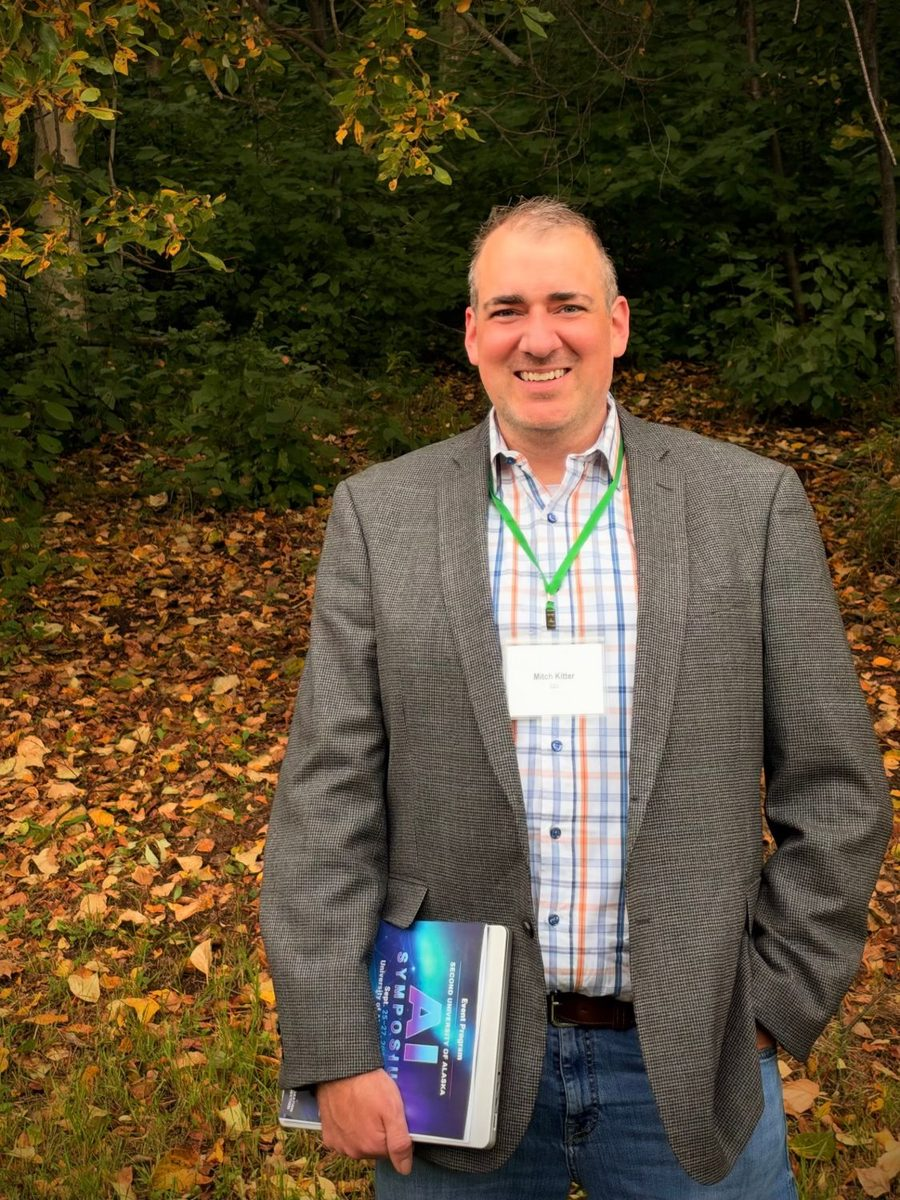
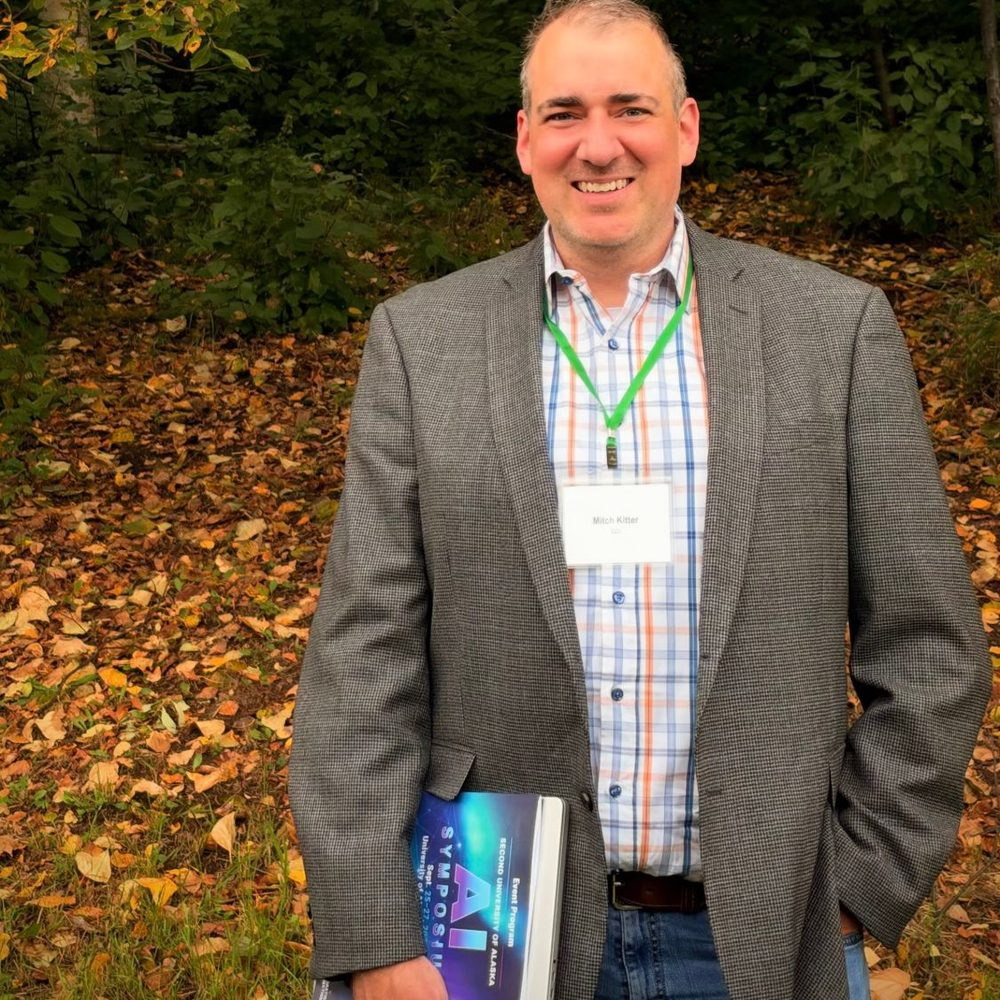
Condense UA AI Symposium post and fix stretched photo
Trim the post to about a quarter of its length, swap the portrait photo
for a square crop, add height:auto to post figure images, and cache-bust
blog.css so browsers pick up the figure styles.

Claude-Session: https://claude.ai/code/session_017zDf5S3JkX34gCJag1QndZ

diff --git a/blog/ua-ai-symposium-2026.html b/blog/ua-ai-symposium-2026.html
@@ -28,7 +28,7 @@
   <link href="https://fonts.googleapis.com/css2?family=Space+Grotesk:wght@400;500;600;700&family=Inter:wght@400;500;600&family=JetBrains+Mono:wght@400;500&display=swap" rel="stylesheet" />
 
   <link rel="stylesheet" href="../css/style.css" />
-  <link rel="stylesheet" href="../css/blog.css" />
+  <link rel="stylesheet" href="../css/blog.css?v=2" />
 </head>
 <body>
 
@@ -78,7 +78,7 @@
           <div class="post-meta">
             <span class="blog-tag">Cybersecurity</span>
             <time datetime="2026-09-28" itemprop="datePublished">September 28, 2026</time>
-            <span class="read-time">10 min read</span>
+            <span class="read-time">3 min read</span>
           </div>
 
           <h1 class="post-title" itemprop="headline">Power, Phishing, and the New Perimeter: Takeaways from the UA AI Symposium</h1>
@@ -106,116 +106,36 @@
       <!-- POST BODY -->
       <div class="post-body container" itemprop="articleBody">
 
-        <p>This past weekend, the University of Alaska hosted its second AI Symposium, three days (September 25 to 27) of faculty, students, researchers, IT leaders, and industry partners from across the UA system working through what artificial intelligence means for teaching, research, operations, and the state as a whole. The audience joined both in the room and online, and the conversations ran well past the scheduled sessions.</p>
-
-        <p>I was invited to moderate the <strong>Infrastructure, Security &amp; AI</strong> panel on Saturday morning, and it was one of the best conversations I've been part of this year. The questions we took on, about power, connectivity, attackers, and governance, sit right at the center of my Ph.D. research at the University of Alaska Fairbanks and of my day job leading security architecture and planning at GCI. Hearing them debated by the people who build and defend this infrastructure every day was energizing.</p>
+        <p>This past weekend, the University of Alaska hosted its second AI Symposium (September 25 to 27), bringing together faculty, students, IT leaders, and industry partners from across the UA system, in person and online. I was invited to moderate the <strong>Infrastructure, Security &amp; AI</strong> panel, and it was one of the best conversations I've been part of this year.</p>
 
         <figure class="figure-portrait">
-          <img src="../assets/images/post-ua-ai-symposium-2026.jpg" alt="Mitch Kitter smiling outdoors among autumn birch trees and fallen leaves, wearing a gray blazer and a symposium name badge, holding the event program for the Second University of Alaska AI Symposium, September 25 to 27." width="900" height="1200" loading="lazy" />
+          <img src="../assets/images/post-ua-ai-symposium-2026.jpg" alt="Mitch Kitter smiling outdoors among autumn trees and fallen leaves, wearing a gray blazer and symposium name badge, holding the program for the Second University of Alaska AI Symposium." width="1000" height="1000" loading="lazy" />
           <figcaption>At the second University of Alaska AI Symposium, program in hand.</figcaption>
         </figure>
 
-        <h2>The panel</h2>
+        <p>I was joined by <strong>Shawn Williams</strong> (VP of Government Affairs and Strategy, Pacific Data Port), <strong>Benjamin Shier</strong> (Chief Information Technology Officer, University of Alaska System), and <strong>Ryan McDaniel</strong> (CIO, UAA), with UA CISO <strong>Jeannette Okinczyc</strong> contributing from the audience. Here's what stood out.</p>
 
-        <p>I was fortunate to share the stage with three leaders who see AI's infrastructure and security impacts from very different vantage points:</p>
+        <h2>Power runs out first</h2>
 
-        <ul>
-          <li><strong>Shawn Williams</strong>, Vice President of Government Affairs and Strategy at Pacific Data Port, a 45-year Alaskan, former Assistant Commissioner of Commerce for the State of Alaska, and a fellow UAF Ph.D. student studying regulatory economics and public health.</li>
-          <li><strong>Benjamin Shier</strong>, Chief Information Technology Officer for the University of Alaska System, who leads IT strategy and shared technology services for UAA, UAF, and UAS.</li>
-          <li><strong>Ryan McDaniel</strong>, Assistant Vice Chancellor and Chief Information Officer at UAA, with 25 years in higher education IT and doctoral research on international cyber conflict.</li>
-        </ul>
+        <p>When I asked what runs out first if AI demand in Alaska doubles, power came up fast. Shawn described a utility offering three megawatts for a GPU project, with 30 more costing $30 to 40 million. "It's definitely power first," he said, "because it doesn't exist." Ben noted that AI is reopening the cloud-versus-local question, and if local wins, power becomes the number one issue. Compute ambitions here live or die on energy.</p>
 
-        <p>We were also joined from the audience by <strong>Jeannette Okinczyc</strong>, the University of Alaska's Chief Information Security Officer, who brought the view from the security operations floor. Questions came from the room and from the online audience, relayed by symposium host <strong>Andrew Harnish</strong>.</p>
+        <h2>Latency and sovereignty shape what belongs here</h2>
 
-        <p>I framed the hour around a tension the university has to hold in balance. UA is a <em>customer</em> of AI infrastructure and, increasingly, a potential <em>host</em> of it. It serves researchers, students, faculty, and staff whose needs and attitudes toward AI differ widely. And it has to govern all of that in a way that enables the institution's mission, stays secure, and reflects its values. Here's what stood out.</p>
+        <p>A round trip from the North Slope to Seattle can approach 90 milliseconds. For most AI work that barely matters, but for real-time security response, rural healthcare, research data, and defense, it does. The panel and audience kept returning to Alaska's need to operate independently of its links to the Lower 48.</p>
 
-        <h2>1. If AI demand doubles, power runs out first</h2>
+        <h2>Attackers are adopting AI as fast as defenders</h2>
 
-        <p>I asked each panelist a simple question: if AI demand in Alaska doubles over the next three years, what runs out first? Power, middle-mile capacity, skilled people, or governance capacity?</p>
+        <p>Jeannette shared that her team's daily phishing response grew from about 90 minutes to 12 to 14 hours in roughly a year, forcing an investment in AI-driven defense because "people can't keep up with AI." Ben put it best: "Even though the castle walls are higher, the enemy has tanks that are 10 times more capable than five years ago."</p>
 
-        <p>Shawn didn't hesitate. Pacific Data Port has fielded interest in placing GPU clusters at its Talkeetna teleport, and when the company asked its utility what additional power was available, the answer was three megawatts. Getting roughly 30 more megawatts from the Intertie would cost somewhere between $30 and $40 million, and at that point, as Shawn put it, things "start to not pencil out."</p>
+        <h2>The perimeter has moved</h2>
 
-        <blockquote>
-          <p>"I can tell you right now that it's definitely power first, because it doesn't exist."</p>
-          <cite>Shawn Williams, Pacific Data Port</cite>
-        </blockquote>
+        <p>Ryan observed that as people build their own apps and agents, what they ask IT for is data. "The perimeter that we control has shifted." An agent acting on your behalf should get "some subset of what I can do, not all of it," with its own credentials. Identity, access, and governance for non-human actors are now core security work, and across the panel, policy is running ahead of enforcement.</p>
 
-        <p>He ranked middle mile second, people third, and governance last, not because it doesn't matter, but because "it'll come along and it'll just be a little late." Ryan agreed power becomes the binding constraint as demand grows, though he argued governance is the biggest vacuum <em>today</em>. He also made a point I hadn't fully considered: frontier AI providers are currently subsidizing usage, and as prices eventually rise, organizations will shift more work to local models running on their own hardware. That drives demand for local compute and co-location, and in Alaska that demand lands squarely on the power grid.</p>
+        <h2>Why it matters for my research</h2>
 
-        <p>Ben added a wrinkle that I think deserves more attention. After years of moving workloads out of in-state data centers and into the cloud because the economics made sense, institutions are now asking whether AI makes it worth running things locally again. If the answer is yes, "power becomes your number one issue, because we just don't have that kind of excess power." Ryan sharpened it further: it isn't only capacity, it's cost. Elsewhere, compute simply migrates to wherever the kilowatt-hour is cheapest. If Alaska wants AI capacity that isn't dependent on an undersea cable to the Lower 48, it doesn't have that option.</p>
+        <p>My Ph.D. research at UAF examines the security and resilience of Alaska's critical telecommunications infrastructure, and how security leaders prioritize risk when resources are finite. This panel touched every thread: the interdependence of telecom and energy, geography as a risk factor, defenders stretched by AI-scale threats, and governance lagging adoption. These questions also shape how we think about security architecture every day at GCI.</p>
 
-        <h2>2. Latency and sovereignty decide what belongs in Alaska</h2>
-
-        <p>That led naturally to the question of which workloads actually make sense to host here. Shawn walked the room through the physics: a round trip from Anchorage to Seattle over fiber runs roughly 40 to 50 milliseconds, but from the North Slope, down the backbone to Seattle, and back, it can approach 80 to 90. Low-earth-orbit satellite service sits in a similar range, while geosynchronous links can reach 650 milliseconds.</p>
-
-        <p>For much of today's AI use, latency barely matters. As Ryan noted, if an agent is building an app for you, you let it run and come back later. But the panel converged on a short list where it matters a great deal:</p>
-
-        <ul>
-          <li><strong>Real-time security response.</strong> In Ryan's words, "if your AI-based response is not keeping up with the AI-based attack, then it's a war of attrition and you're losing."</li>
-          <li><strong>Healthcare.</strong> Dr. Helena Wisniewski, who recently spoke with the Alaska Native Tribal Health Consortium on AI in medicine, pointed out that AI-supported care in rural villages, care that could spare patients a trip to Anchorage, makes latency critical.</li>
-          <li><strong>Research at scale.</strong> Ben described how working with very large research data sets changed his own cloud-first thinking and made a case for keeping some compute on-premises.</li>
-          <li><strong>Defense and data sovereignty.</strong> Shawn summed it up: defense, healthcare, and data sovereignty are all good reasons for localized hosting.</li>
-        </ul>
-
-        <p>An audience member added what I'd call the third leg of the stool. Beyond economics and performance, Alaska's distance from the rest of the country makes domestic and national security a distinct factor. Models that work well in the Lower 48, where data centers can be mirrored across many regions, don't translate cleanly to a state that already has connectivity constraints. Another participant noted that the most capable frontier models are exactly what defenders will need to keep up with AI-discovered vulnerabilities, so Alaska will likely need <em>hybrid</em> capability: strong local capacity, plus access to frontier models. The piece I keep returning to is the ability to respond <em>independently</em> of our connections to the Lower 48 when those connections are degraded or cut.</p>
-
-        <h2>3. Attackers are adopting AI as fast as defenders</h2>
-
-        <p>When I asked what single AI-driven change had most altered their infrastructure or security planning in the last 18 months, Ben's answer was immediate: phishing. Despite years of anti-phishing investment, AI-generated phishing has become faster and more sophisticated, driving a significant increase in successful attacks, including attempts to reroute employee paychecks.</p>
-
-        <p>Jeannette put numbers to it. Her team's daily time spent responding to phishing, pulling messages from inboxes, contacting users, resetting credentials, grew from about 90 minutes a day to 12 to 14 hours a day over roughly a year. A small team simply could not keep pace, so the university invested in AI-driven phishing response and began automating parts of incident response, using local models to evaluate the likelihood of a false positive before letting automation act. It has already paid dividends. Her summary was blunt: "people can't keep up with AI."</p>
-
-        <p>Asked which control she was least confident in, she named the one most security leaders would: vulnerability management and patching. Ryan predicted it will get harder, not easier, as vendors use AI to find flaws in their own products and push fixes faster than organizations can absorb them. He also raised a quieter consequence: attribution. Investigators have long identified attackers by their fingerprints, familiar tooling, code habits, and techniques. When an attacker simply tells an AI to "go hack," those fingerprints blur, and knowing who is behind an intrusion gets harder still.</p>
-
-        <p>Ben captured the paradox of the moment in a single line:</p>
-
-        <blockquote>
-          <p>"Even though the castle walls are higher, the enemy has tanks that are 10 times more capable than five years ago."</p>
-          <cite>Benjamin Shier, University of Alaska System</cite>
-        </blockquote>
-
-        <p>An organization can meaningfully improve its security posture and still end up relatively <em>less</em> secure, because the threat is improving faster. As Ben said, it depends on the day.</p>
-
-        <h2>4. The perimeter has moved to identity and non-human actors</h2>
-
-        <p>Ryan's answer to the 18-month question is the one I've thought about most since. Building an application used to mean asking IT to build it. Now anyone can build their own app or agent in an afternoon, and what they show up asking IT for is <em>data</em>.</p>
-
-        <blockquote>
-          <p>"So the perimeter that we control has shifted."</p>
-          <cite>Ryan McDaniel, University of Alaska Anchorage</cite>
-        </blockquote>
-
-        <p>That shift creates two new layers of work. One is infrastructure: integrations, API control, and control over how agents interact with systems through protocols like MCP. The other is policy: the rules of play for self-built apps, such as requiring code to live in a managed repository where security teams can scan it for mistakes like secrets left in source, which, as Ryan noted, agents will absolutely do.</p>
-
-        <p>Then there's identity. If a business process requires a human in the loop, authorization has to enforce that. When an AI agent logs into an ERP system on your behalf, it shouldn't inherit everything you can do. It "should be able to do some subset of what I can do, not all of it," which means agents need their own credentials and their own scoped authorizations. Most identity infrastructure was never designed for that.</p>
-
-        <p>The policy discussion reinforced the gap. Across the panel, written AI policies, assessed tools, and published guidance exist, but the systemic controls to see or stop inappropriate data sharing largely don't yet. Shawn noted that the biggest vulnerability remains the human who pastes something proprietary into an unapproved tool. Ryan described banning one meeting-transcription tool that was spreading through the community almost like a worm, and made the important point that a single approved list doesn't fit a university: what's appropriate for institutional data differs from what's appropriate for research or teaching. The honest summary is that <strong>policy is ahead of enforcement</strong>, and identity, access, and governance for non-human actors are now core security work.</p>
-
-        <h2>5. What Juneau should know</h2>
-
-        <p>In a lightning round, I asked what good AI infrastructure policy looks like for Alaska. Shawn suggested repurposing the Alaska Broadband Office, created to distribute federal broadband funding, toward a broader mandate for Alaska's telecommunications infrastructure. Ben tied everything back to energy: so much of what the state can do in AI, local models, and cybersecurity depends on solving its energy challenges. And Ryan urged legislators to look beyond technology to the societal and economic impacts, which he described as "industrial revolution times five."</p>
-
-        <p>Diane Hirschberg from UAA pushed the energy question further from the audience: if growing demand can lower energy costs over time, and if sovereign AI capacity is a genuine security and productivity issue for Alaska, what investment should the state be willing to make, and how do we have that conversation? It's the right question, and it doesn't have an easy answer.</p>
-
-        <h2>Why this matters for my research</h2>
-
-        <p>My dissertation examines the cyber and physical security and resilience of Alaska's critical telecommunications infrastructure, and in particular how the state's telecom security leaders prioritize risk when resources are finite. This panel surfaced nearly every thread I'm pulling on:</p>
-
-        <ul>
-          <li><strong>Interdependence.</strong> Telecommunications and energy are inseparable in Alaska. Compute ambitions here live or die on power, and the resilience of our networks depends on the resilience of the grid that feeds them.</li>
-          <li><strong>Geography as a risk factor.</strong> Latency, limited path diversity, and reliance on long-haul links to the Lower 48 aren't abstractions. They shape what can be hosted here, how quickly we can respond to an incident, and how we operate if a link goes dark.</li>
-          <li><strong>Resource-constrained defense.</strong> A phishing workload that grows from 90 minutes to 14 hours a day is exactly the kind of pressure that forces leaders to choose between competing risks. Understanding how those choices get made is at the heart of my research.</li>
-          <li><strong>Governance lag.</strong> When policy moves slower than adoption, and controls lag behind policy, risk accumulates in the gap. Non-human identity may be the clearest example we have right now.</li>
-        </ul>
-
-        <p>I left the room with more questions than I brought, which is the best outcome a panel can have.</p>
-
-        <h2>Thank you</h2>
-
-        <p>Huge thanks to Shawn Williams, Benjamin Shier, and Ryan McDaniel for their candor and insight, and to Jeannette Okinczyc for jumping in from the audience. Special thanks to Dr. Helena S. Wisniewski and Andrew Harnish for organizing such a thoughtful event, and to everyone in the room and online who asked questions and pushed the conversation forward.</p>
-
-        <p>And one fun full-circle moment: years ago, I was a student in Helena's first AI course at the University of Alaska Anchorage College of Business and Public Policy. That course laid part of the foundation for my being able to moderate this conversation. It was a privilege to be back in a room she helped build.</p>
-
+        <p>Huge thanks to Shawn, Ben, and Ryan for their candor, to Jeannette for jumping in, and to Dr. Helena S. Wisniewski and Andrew Harnish for organizing such a thoughtful event. A fun full-circle moment: I was a student in Helena's first AI course at the UAA College of Business and Public Policy years ago.</p>
         <div class="post-cta">
           <h2>Let's keep the conversation going</h2>
           <p>If you work on security, resilience, or infrastructure for Alaska's critical telecommunications, I'd love to hear how these questions look from your seat.</p>

diff --git a/blog.html b/blog.html
@@ -92,7 +92,7 @@
             <div class="blog-list-item-meta">
               <time datetime="2026-09-28">September 28, 2026</time>
               <span class="blog-tag">Cybersecurity</span>
-              <span class="read-time">10 min read</span>
+              <span class="read-time">3 min read</span>
             </div>
             <div class="blog-list-item-body">
               <h2 class="blog-list-item-title">

diff --git a/css/blog.css b/css/blog.css
@@ -365,11 +365,12 @@
 .post-body figure img {
   border-radius: var(--radius-md);
   width: 100%;
+  height: auto;
 }
 
 .post-body figure.figure-portrait img {
   display: block;
-  max-width: 440px;
+  max-width: 520px;
   height: auto;
   margin: 0 auto;
 }
